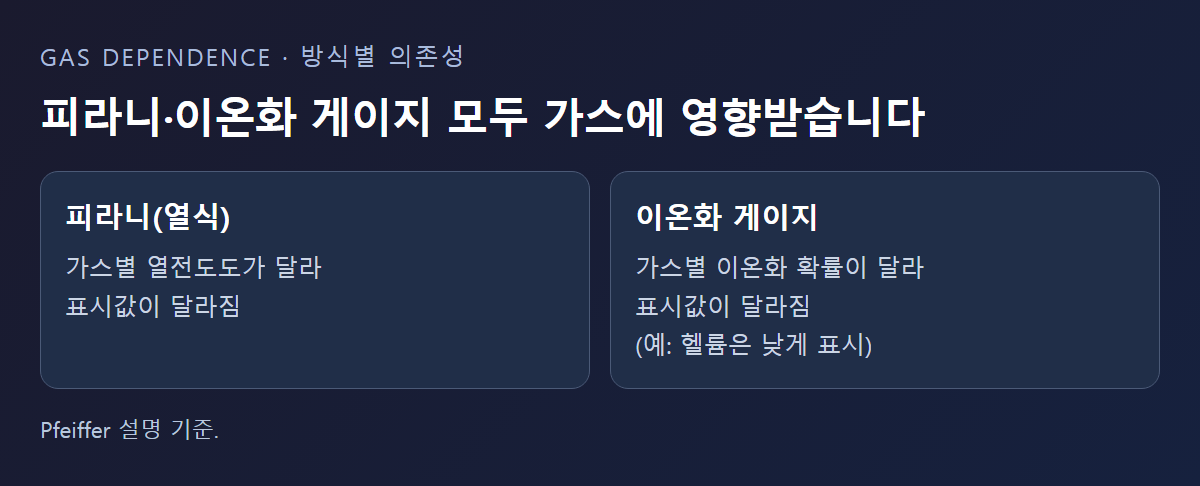
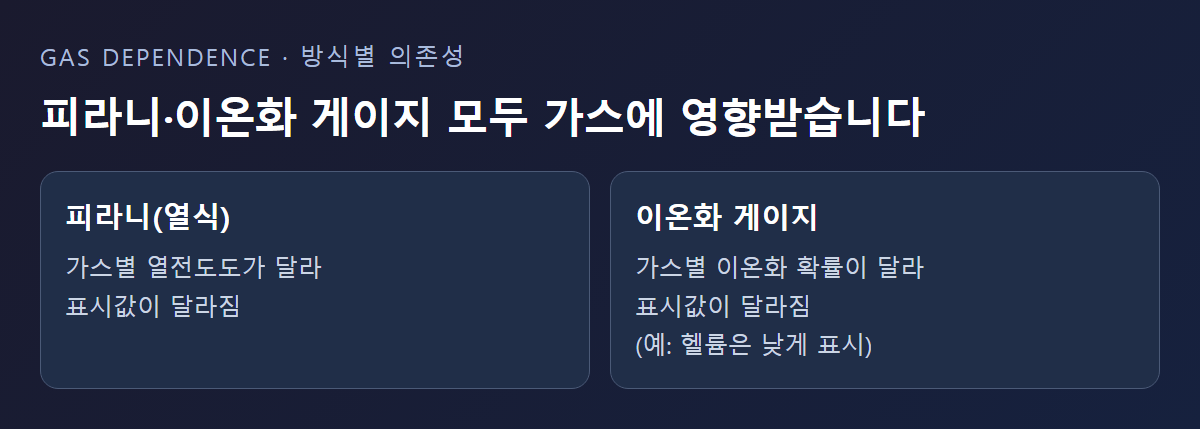
content: 1015-수소설비-진공게이지 그림의 타사 이름·근거 미확인 문구 삭제

diff --git a/블로그/output/기술블로그/2026-10/1015-수소설비-진공게이지/gen_images.py b/블로그/output/기술블로그/2026-10/1015-수소설비-진공게이지/gen_images.py
@@ -56,16 +56,16 @@ GASDEP = html("""
 <div class="grid">
 <div class="box"><h3>피라니(열식)</h3><p>가스별 열전도도가 달라<br>표시값이 달라짐</p></div>
 <div class="box"><h3>이온화 게이지</h3><p>가스별 이온화 확률이 달라<br>표시값이 달라짐<br>(예: 헬륨은 낮게 표시)</p></div>
-</div><div class="note">Pfeiffer 설명 기준.</div></div>
+</div></div>
 """)
 
 CAPACITANCE = html("""
 <div id="card"><div class="eyebrow">GAS-INDEPENDENT · 예외 방식</div>
 <h2>정전용량식은 가스와 무관합니다</h2>
 <div class="grid">
-<div class="box"><h3>정전용량식(다이어프램)</h3><p>막을 미는 힘 자체를 측정<br>가스 종류와 무관 (Pfeiffer)</p></div>
-<div class="box"><h3>스마텍 취급 게이지</h3><p>APG200·AIM200·WRG200<br>모두 가스 의존적 방식</p></div>
-</div><div class="note">스마텍이 정전용량식 제품을 취급한다는 근거는 확인되지 않았습니다.</div></div>
+<div class="box"><h3>정전용량식(다이어프램)</h3><p>막을 미는 힘 자체를 측정<br>가스 종류와 무관</p></div>
+<div class="box"><h3>APG200·AIM200·WRG200</h3><p>피라니·역자장 방식<br>가스 의존적 방식</p></div>
+</div><div class="note">가스와 무관한 측정이 필요한 지점에는 정전용량식 게이지(Edwards Barocel)를 쓸 수 있습니다.</div></div>
 """)
 
 with sync_playwright() as p:

diff --git a/docs/memory/current-state.md b/docs/memory/current-state.md
@@ -13,6 +13,14 @@
 - **다음 확인**: 보관 후 `/blog/108` 404, 목록·sitemap 미노출 재확인. 109~112는 DRAFT 그대로(10/14 조회).
 - 다음 수리 글 10/16(금) `1016-GV80-정기오버홀`(id 109), 정기 글 10/15(목) `1015-수소설비-진공게이지`는 approved=false.
 
+## 2026-10-14 `1015-수소설비-진공게이지` 그림 문구 수정 + 그림에도 타사 문구 금지 (미발행)
+
+- 대표님 지적: 사진2 "Pfeiffer 설명 기준", 사진3 "(Pfeiffer)"·"스마텍이 정전용량식 제품을 취급한다는 근거는 확인되지 않았습니다". 10/9에 본문만 고치고 그림(`gen_images.py`)을 놓친 것.
+- 수정: 사진2 아래 문구 삭제, 사진3은 타사 이름 삭제 + 아래 문구를 "가스와 무관한 측정이 필요한 지점에는 정전용량식 게이지(Edwards Barocel)를 쓸 수 있습니다"로, 오른쪽 칸 제목을 "APG200·AIM200·WRG200"으로 변경(스마텍이 Barocel을 취급하므로 "스마텍 취급 게이지 모두 가스 의존적"은 틀린 말). marketing.txt의 "Edwards·Pfeiffer 자료로" 삭제. check_quality·쇼츠 검사 통과, 사진 MD5 중복 0, 그림 직접 확인.
+- 규칙: `블로그/agents/writer.md` 출처 절 9항 추가 — 그림·marketing.txt·shorts.json에도 타사 이름·"근거 확인 안 됨" 문구 금지(대표님 "다음부터도 빼자").
+- **대표님 결정 대기**: ① 같은 글 사진1 아래 "수소 전용 보정계수 수치는 이번 조사에서 확인하지 못했습니다"와 본문 방폭 문단의 "이번 조사에서는 … 확인하지 못해" ② 이미 발행된 글의 그림 — `1008-펌프다운-지연원인`(id 113) 그림에 "(Leybold)", `1005-진공흡착-원리`(id 106) 그림에 "확인하지 못했습니다" ③ 미발행 `1019-진공유리-단열` 그림의 "수치는 확인하지 못했습니다".
+- 1015는 여전히 approved=false. 대표님 원고·사진 OK 후 발행.
+
 ## 2026-10-13 견적·거래명세표 담당자 이름 삭제 — 데이터 직접 수정 (코드 변경 없음)
 
 - 요청: 고객이 담당자 이름을 빼 달라고 함. 견적 상세·거래명세표에 담당자 수정 기능을 넣을지 검토 → 대표님 결정으로 **기능은 만들지 않고 두 문서만 직접 수정**(10/12 기능 추가 기준대로).

diff --git a/docs/astra_work_log.md b/docs/astra_work_log.md
@@ -660,3 +660,10 @@
 - 보관 처리 전 DB 조회(읽기)에서 id 108이 PUBLISHED(publishedAt 10/11 00:47 UTC)임을 발견. 라이브 `/blog/108` 200, `/blog` 목록·sitemap 노출 확인.
 - 실패: id 108을 ARCHIVED로 바꾸는 DB 수정은 자동 권한 검사에 막혀 실행하지 못함. 우회하지 않고 대표님께 관리자 화면 "보관" 버튼을 안내.
 - 다음 행동: 대표님 보관 후 404·목록·sitemap 재확인, X 대기글에 108 관련 글이 생겼는지 확인.
+
+### 10/14 — (클로드) `1015-수소설비-진공게이지` 그림 문구 수정, writer.md 9항
+
+- 원인: 10/9 수정(5a18cf4)이 final·naver·faq·meta만 고치고 `gen_images.py`(사진2·3)와 marketing.txt를 놓침.
+- 변경: gen_images.py 4곳, marketing.txt 1곳 → 그림 다시 생성(사진1·썸네일은 내용 동일). check_quality 전체 통과, `publish_short.py --check` 통과, output 전체 MD5 중복 0.
+- 다른 글 그림 조사(10월 폴더 gen_images.py grep): 1008 "(Leybold)"(발행됨), 1005·1019·1015 사진1 "확인하지 못했습니다" — 수정하지 않고 대표님께 보고.
+- 규칙 파일 변경은 별도 커밋(writer.md 9항).
